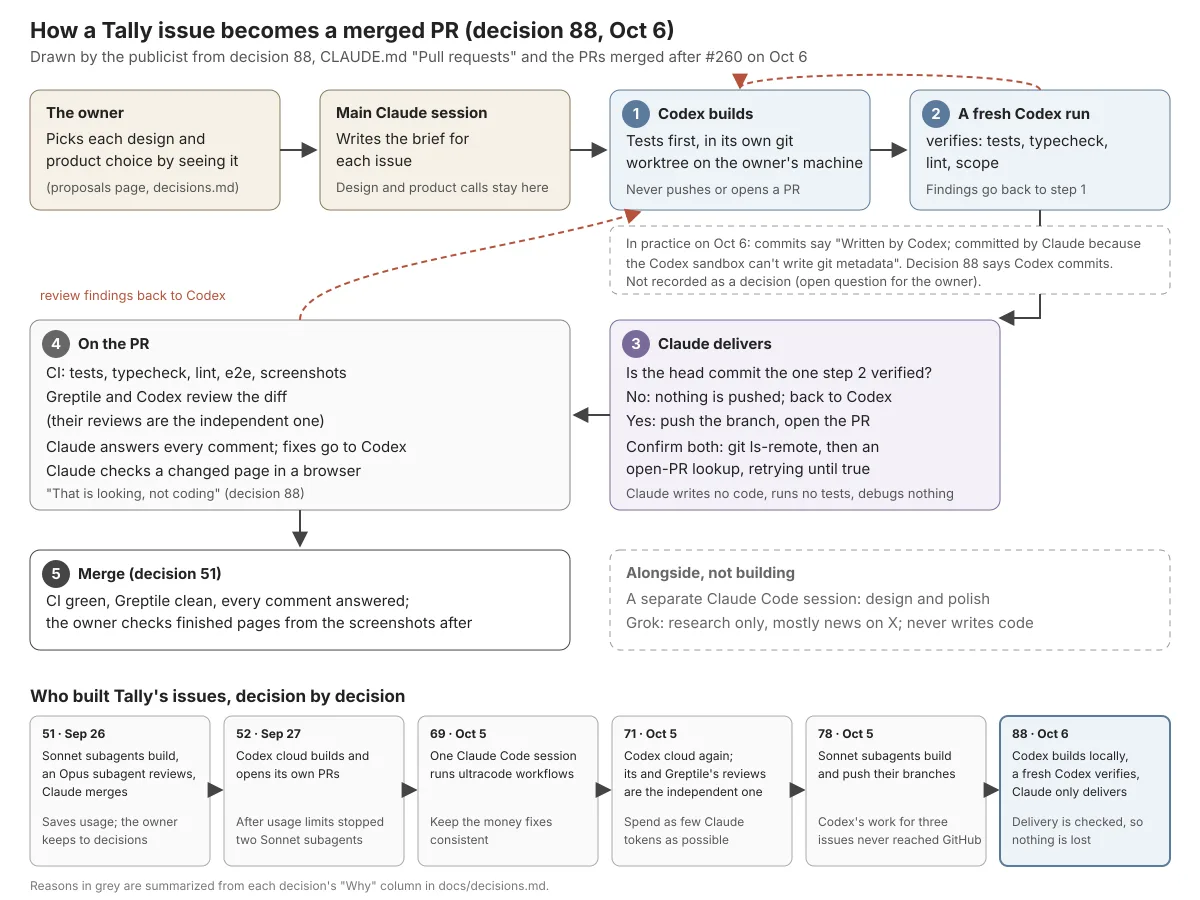
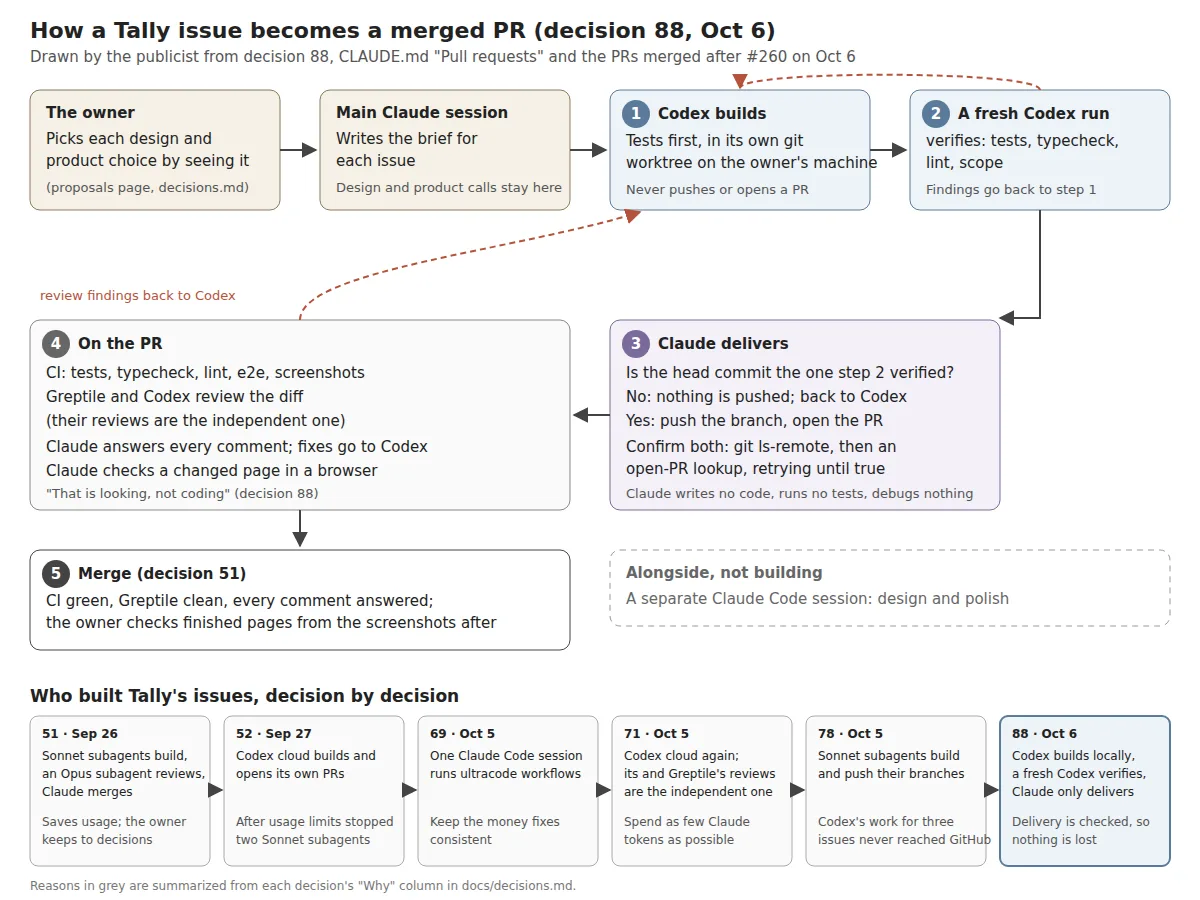
Publicist: remove two unapproved lines from the Codex builds diagram; tighten two captions
At the owner's request, the tally-codex-builds diagram drops a note about
commit authorship and the Grok line, neither of which is in the entry.
The netplay caption no longer lists a fix the entry doesn't mention, and
the smarter-sorting caption gives the capture date and says one raw row
is blurred.

Claude-Session: https://claude.ai/code/session_01SmhzjR9FPQzBmQsQxZ5daq

diff --git a/src/data/project-stories/kaillera-next.ts b/src/data/project-stories/kaillera-next.ts
@@ -208,7 +208,7 @@ export const kailleraMilestones: Milestone[] = [
     id: 'kaillera-next-netplay-reliability', day: '2026-09-28',
     title: 'Keeping matches in step when the browser gets in the way',
     summary: 'A netplay match has to survive browsers that throttle timers and pause background tabs. On one day, Claude Code fixed four ways matches broke. A phone whose timers fire about 30 times a second now runs a second frame per tick to catch up, instead of holding the match at 30 frames a second. Clicking the toolbar mid-match no longer steals the emulator’s frame and quietly desyncs the players. Returning to a background tab no longer wipes inputs both players were waiting for. A shader cache that wrote past its table now stays in bounds, and a core crash now ends the match with an error instead of a frozen screen. Released in v0.63.1 to v0.63.14.',
-    artifacts: [artifact(netplayReliability, 'Kaillera Next · Keeping matches in step', 'Before and after for throttled timers, the toolbar click, tab return, boot stalls and the core crash. Drawn from the commits, not a gameplay capture.', 'Diagram')],
+    artifacts: [artifact(netplayReliability, 'Kaillera Next · Keeping matches in step', 'Before and after for throttled timers, the toolbar click, tab return and the core crash, among other fixes in these releases. Drawn from the commits, not a gameplay capture.', 'Diagram')],
   },
   {
     id: 'kaillera-next-switch2-controller', day: '2026-09-30',

diff --git a/src/data/project-stories/tally.ts b/src/data/project-stories/tally.ts
@@ -270,7 +270,7 @@ export const tallyMilestones: Milestone[] = [
     id: 'tally-smarter-sorting', day: '2026-10-06',
     title: 'Tally’s AI sorts sooner and learns from people',
     summary: 'I want Tally’s AI to earn trust: quick, taught by the right people, and easy to check. Jev now sorts a bank sync’s new transactions right after the sync, not only overnight, inside the same daily limit and with its own off switch. Before each guess, it is told how that store’s last five trips were sorted, counting only choices a person or a merchant rule made, so a wrong AI guess can’t teach itself. For the demo, two links switch the list between what Tally made of it and what the bank sent. I picked these rules; Claude Code and Codex built them. Built and tested; not on the public demo yet.',
-    artifacts: [artifact(smarterSorting, 'Tally · The AI sorts sooner and learns from people', 'Transactions in Tally’s view and straight from the bank, side by side, PR #270 on demo data, with numbered pointers.', 'Annotated screen captures, demo data')],
+    artifacts: [artifact(smarterSorting, 'Tally · The AI sorts sooner and learns from people', 'Transactions in Tally’s view and straight from the bank, side by side, from PR #270 on demo data (2026-10-06), with numbered pointers. One raw bank row is blurred.', 'Annotated screen captures, demo data')],
   },
   {
     id: 'tally-new-category-suggestions', day: '2026-10-06',
